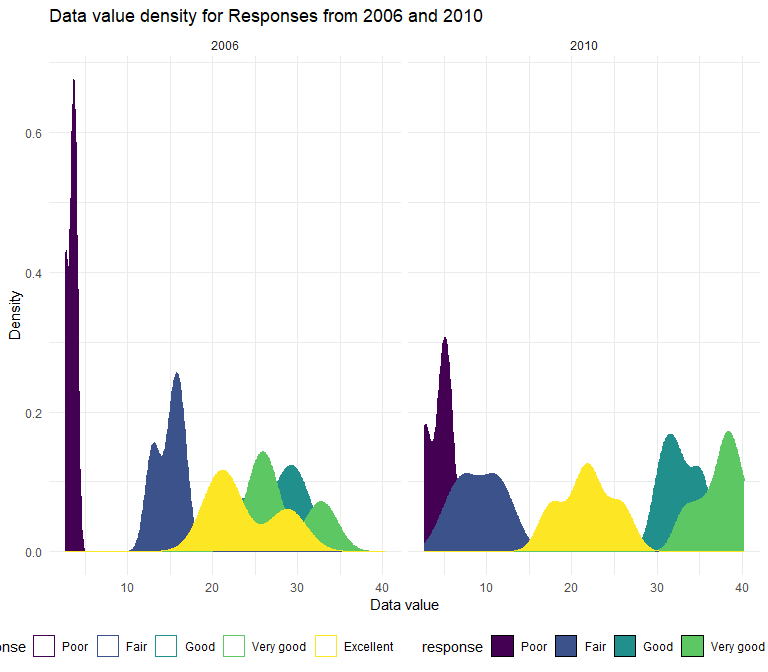
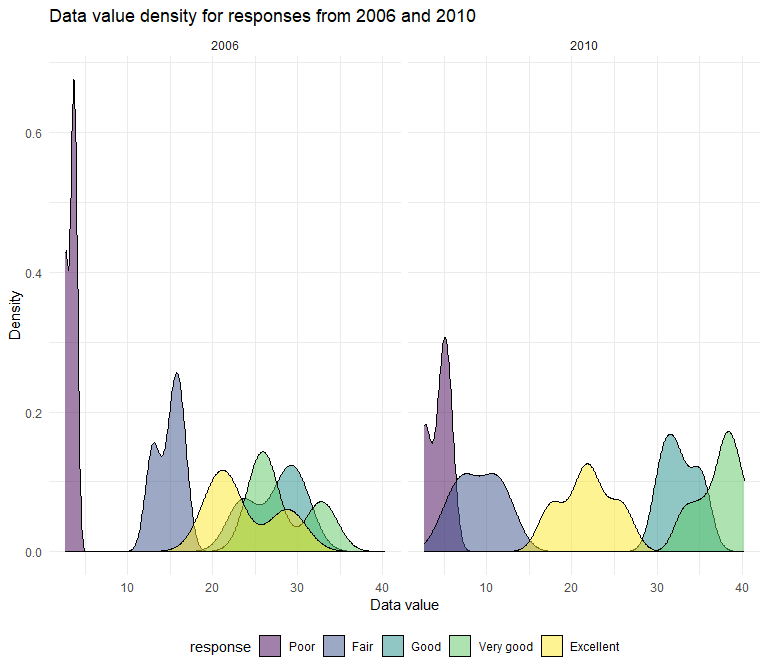
answering questions and cleaning graphs

diff --git a/p8105_hw3_jmm2511.md b/p8105_hw3_jmm2511.md
@@ -99,7 +99,7 @@ brfss_spaghetti<-
   ggplot(aes(x=year, y=mean_data_value,color=locationabbr))+
   geom_line()+ 
   labs(
-    title = "Average data values from 2002 to 2010 by State",
+    title = "Average data values from 2002 to 2010 by state",
     x = "Year",
     y = "Average data value",
     color = "State")
@@ -118,11 +118,11 @@ brfss_NY_plot<-
   brfss_smart2010 %>% 
   filter(locationabbr=="NY", year== c("2006", "2010")) %>% 
   ggplot(
-    aes(x=data_value, fill=response, color=response ))+
-  geom_density()+
+    aes(x=data_value))+
+  geom_density(aes(fill=response), alpha=0.5)+
   facet_grid(~year)+ 
   labs(
-    title = "Data value density for Responses from 2006 and 2010",
+    title = "Data value density for responses from 2006 and 2010",
     x = "Data value",
     y = "Density",
     color = "Response")
@@ -272,8 +272,11 @@ including smooth trends may help identify differences
 ``` r
 day_activity<-
   nhanes_long %>% 
+  mutate(MIM_values=as.numeric(MIM_values))%>% 
+  mutate(minute=as.numeric(minute))%>% 
   ggplot(aes(x=minute, y=MIM_values, color=sex))+
-  geom_point()+
+  geom_point(alpha=0.3)+
+  geom_smooth(method = "lm")+
   facet_grid(education~.)+
   theme(strip.text.y = element_text(angle = 0))+ 
   labs(
@@ -282,7 +285,30 @@ day_activity<-
     y = "MIM values",
     color = "Sex")
 
-day_activity
+#smooth trends were difficult to see alongside the points, creating separate smooth graphs 
+
+day_activity_smooth<-
+  nhanes_long %>% 
+  mutate(MIM_values=as.numeric(MIM_values))%>% 
+  mutate(minute=as.numeric(minute))%>% 
+  ggplot(aes(x=minute, y=MIM_values, color=sex))+
+  geom_smooth(method = "lm")+
+  facet_grid(education~.)+
+  theme(strip.text.y = element_text(angle = 0))+ 
+  labs(
+    title = "Linear model of MIM values over 24-hour period ",
+    x = "Time (minutes)",
+    y = "MIM values",
+    color = "Sex")
+
+day_activity/day_activity_smooth
 ```
 
+    ## `geom_smooth()` using formula = 'y ~ x'
+    ## `geom_smooth()` using formula = 'y ~ x'
+
 <img src="p8105_hw3_jmm2511_files/figure-gfm/unnamed-chunk-3-1.png" width="90%" />
+
+``` r
+#There is an overall increase for MIM values over a 24-hour period for all education levels and sexes. For males that have more than high school education level, there is a large peak in activity around the 1100-1300 minute range. There is a peak in activity for both sexes of the more than high school education level around the 500 minute mark. 
+```
